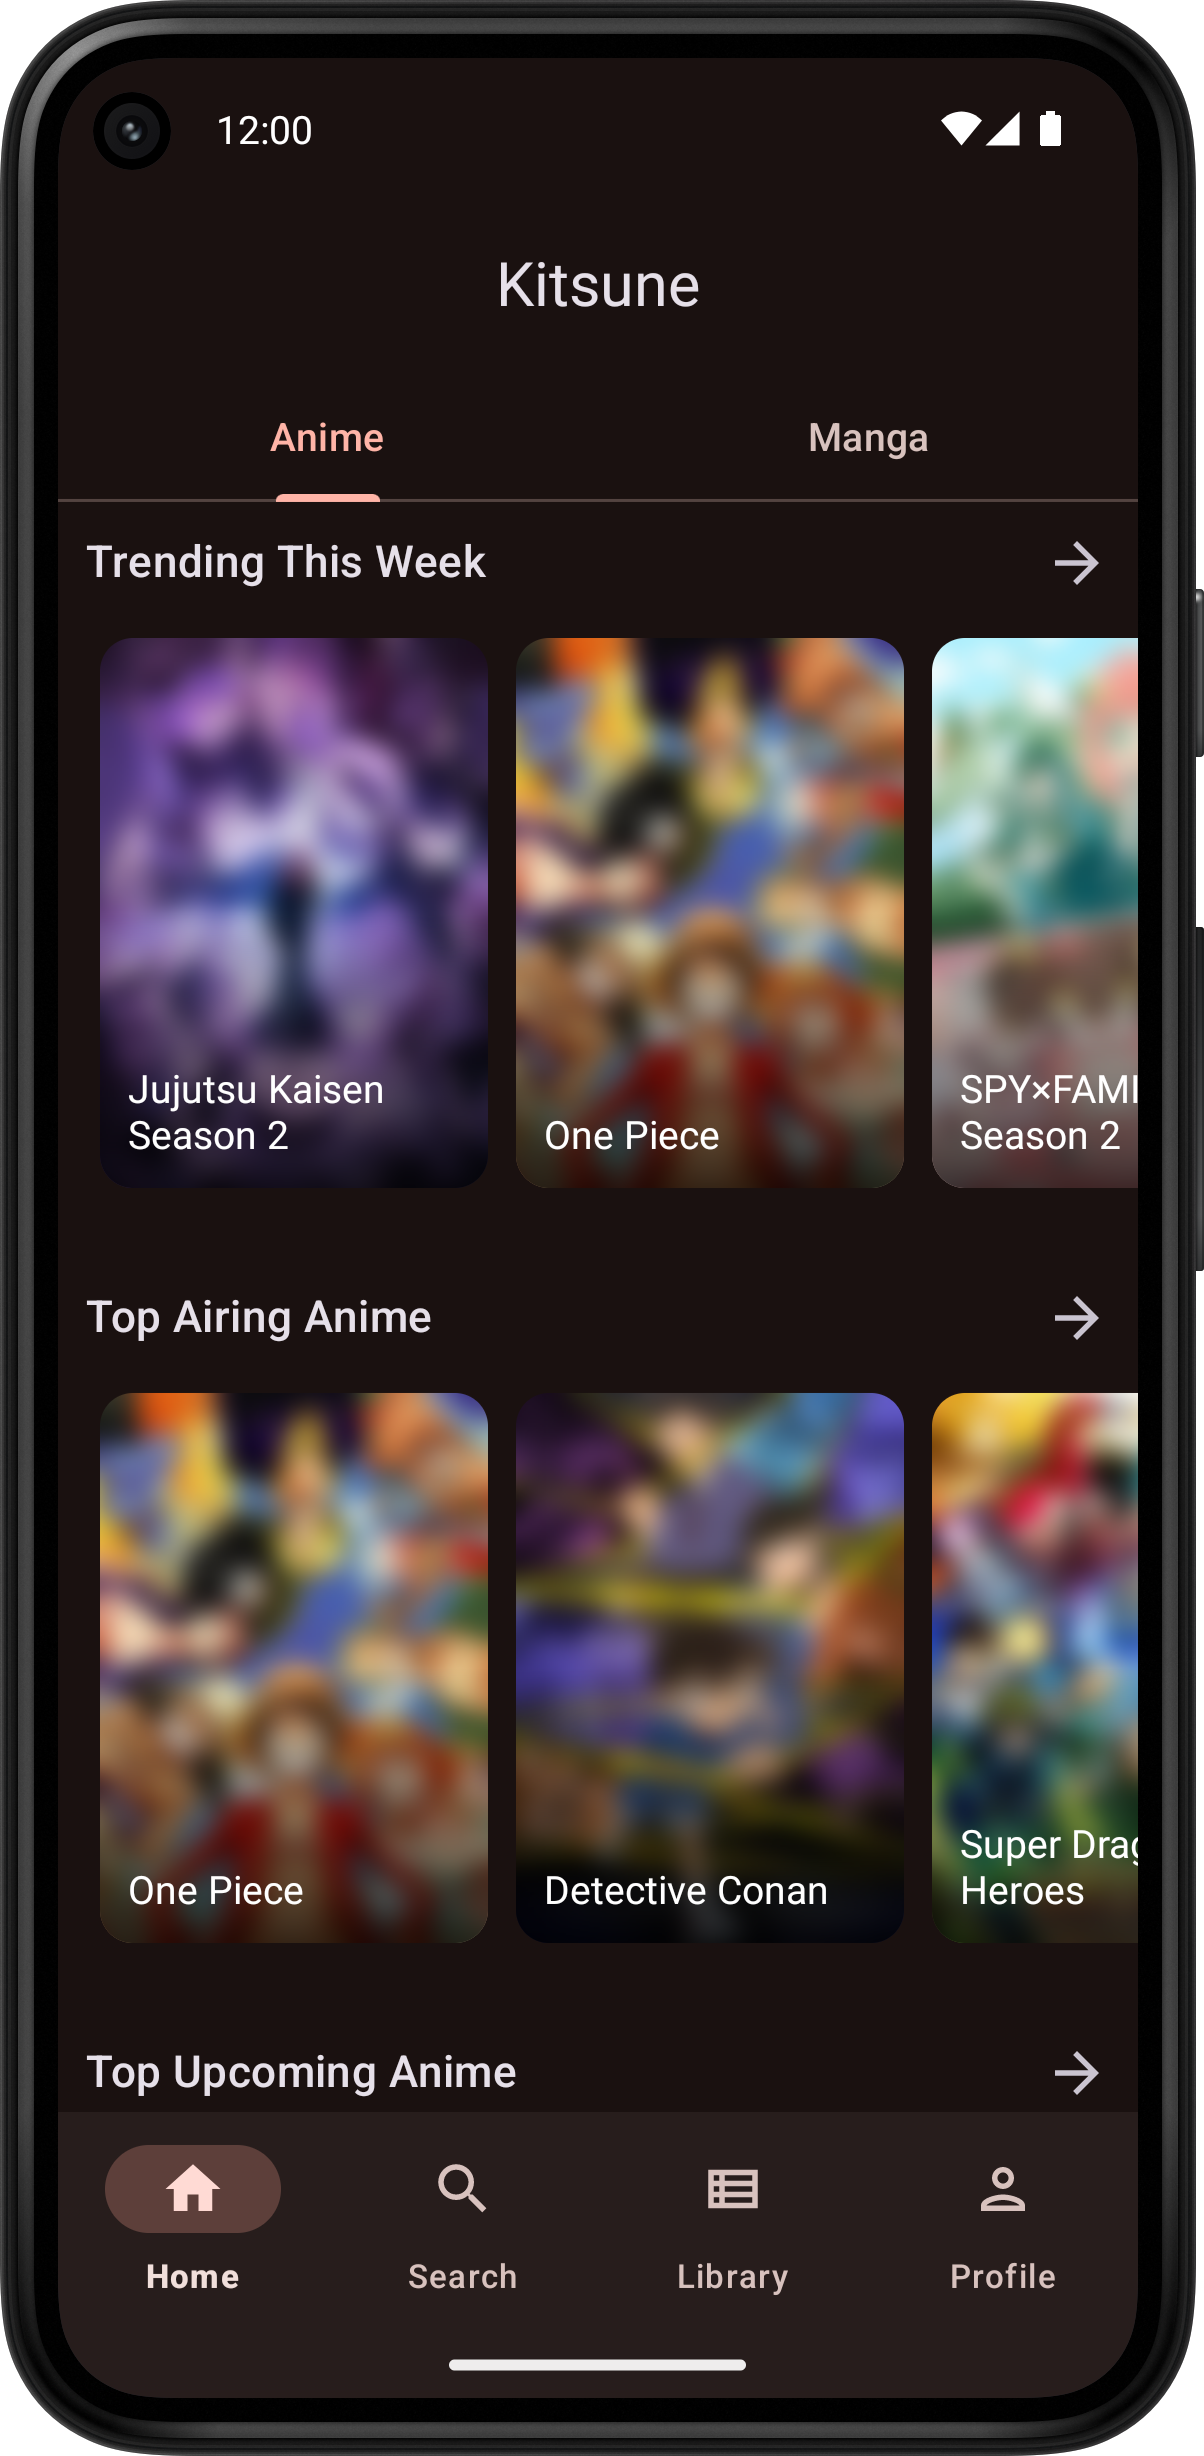
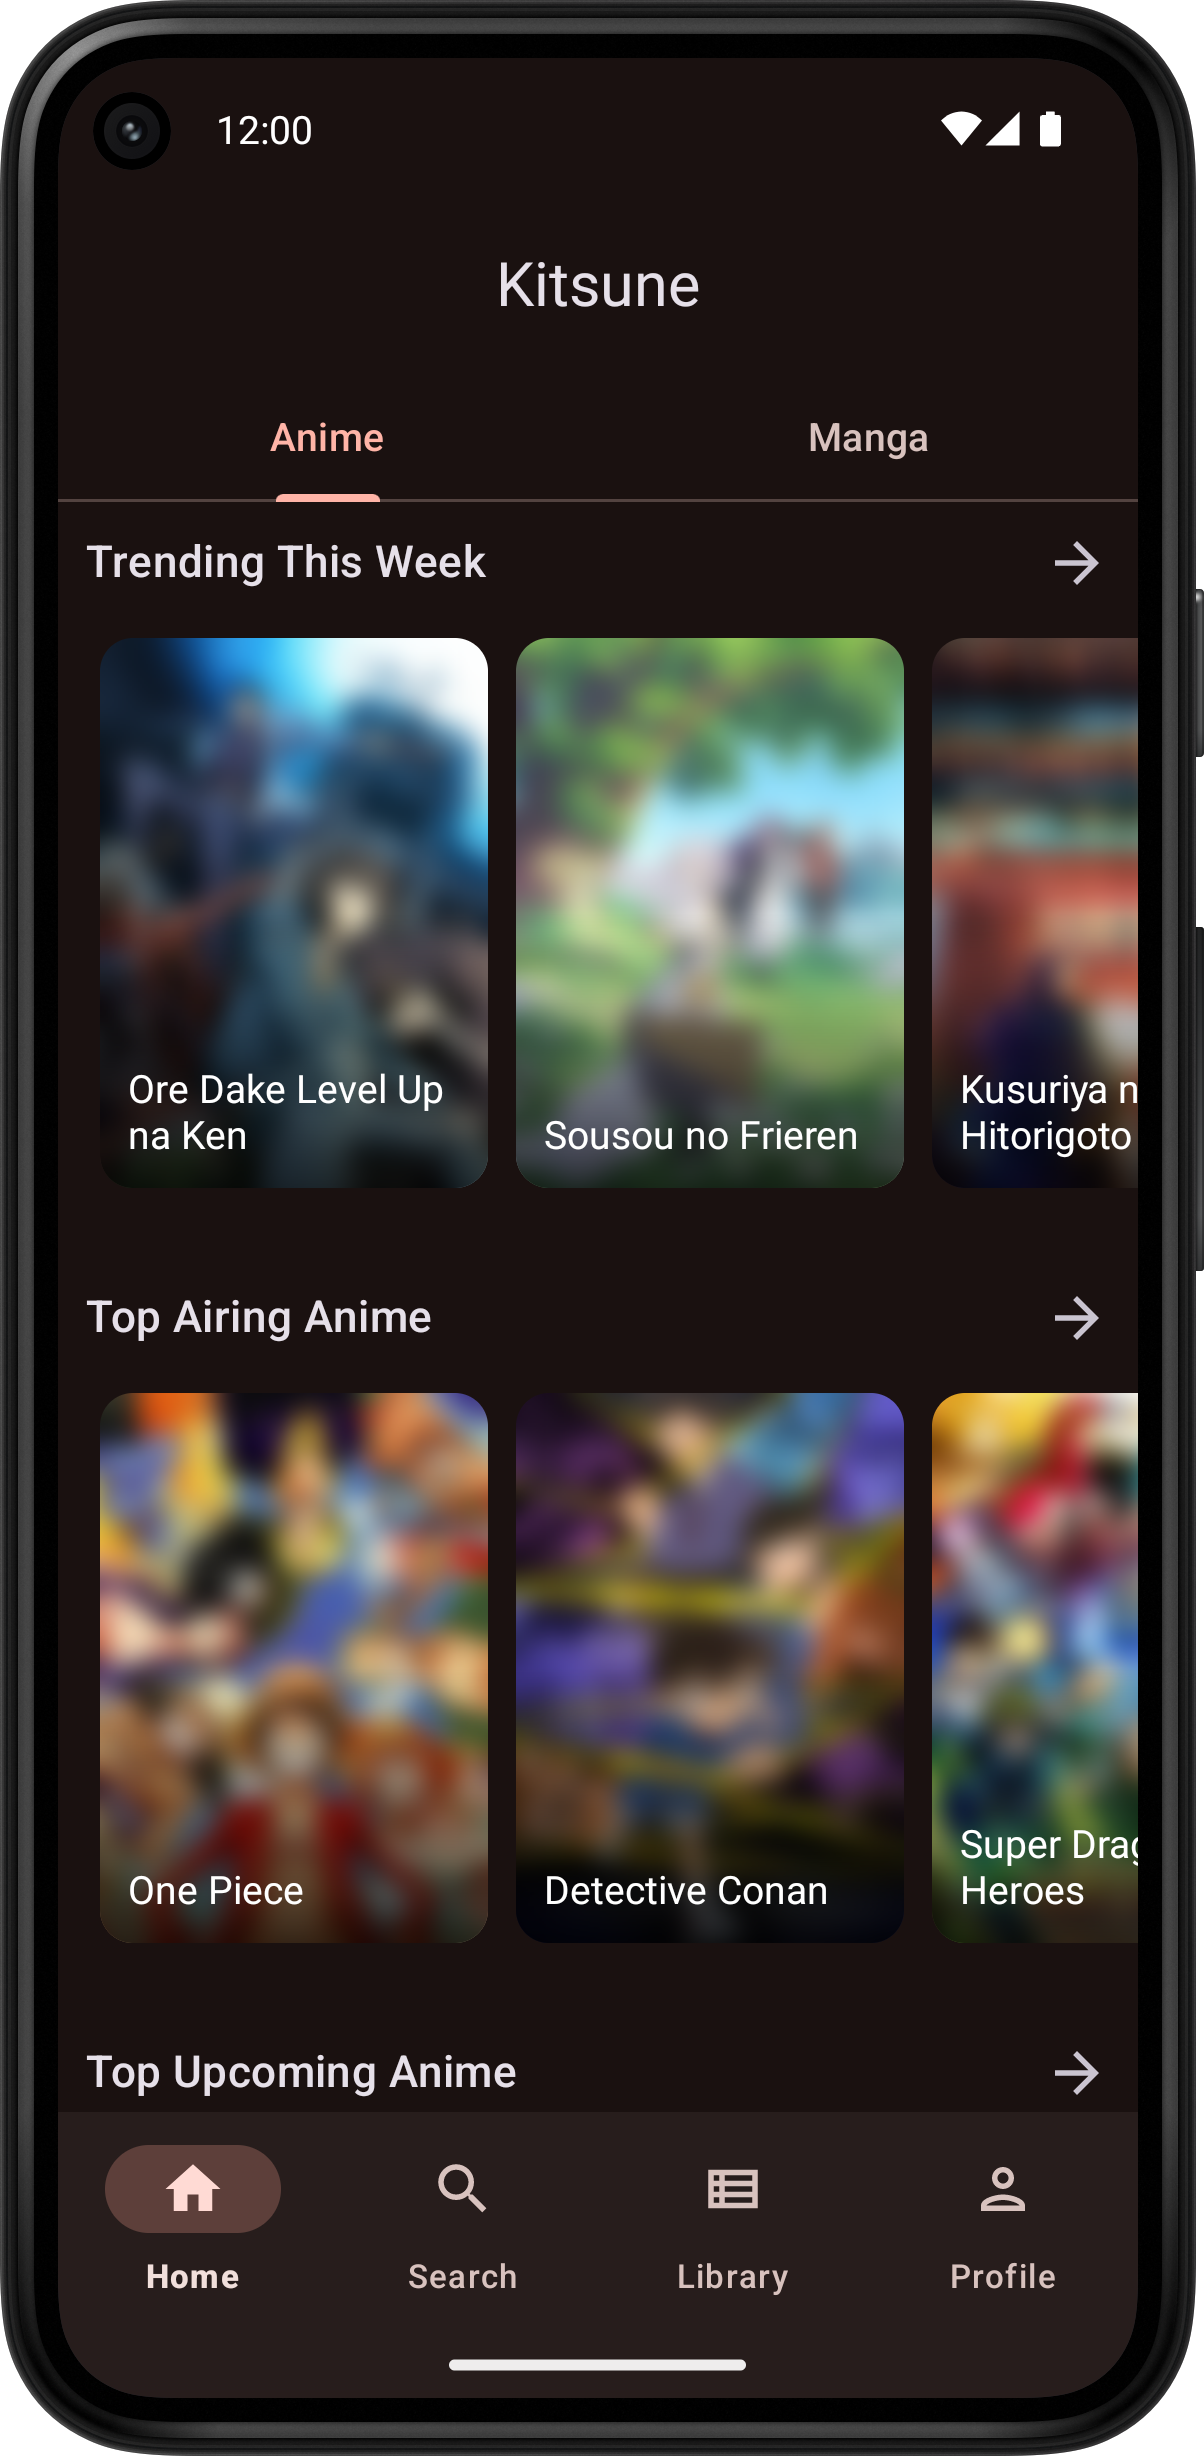
Update screenshots

Changed region(s): [[0.0615, 0.2476, 0.9527, 0.4951]]

diff --git a/fastlane/README.md b/fastlane/README.md
@@ -45,7 +45,7 @@ Take screenshots
 [bundle exec] fastlane android process_screenshots
 ```
 
-Add a device frame to the screenshots and copy them to the media folder
+Add a device frame to the screenshots and copy them to the phoneScreenshots and media folders
 
 ----
 
